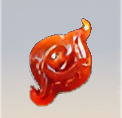
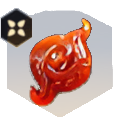
Updated Hero Level page.  Edited Images for new Mastery Jades.

diff --git a/progression.html b/progression.html
@@ -127,7 +127,7 @@
 				<h2>Hero Level</h2>
 				<p class="left">There are two methods to increase your hero's level: 
 					by <strong>completing Showdown missions</strong> and by <strong>using Alchemical Crystallized Souls</strong>. 
-					Note that each hero has a maximum level cap of 20.</p>
+					Note that each hero has a maximum level cap of 25.</p>
 					<hr><h3>Mission Experience</h3>
 					<p class="left">The experience gained from missions scales with your Showdown level relative to the mission's recommended level. 
 						Having a much higher level than recommended will reduce the experience earned. 
@@ -137,10 +137,10 @@
 					<p class="left">Alchemical Crystallized Souls (ACS) are acquired by beating Showdown missions for the first time with certain heroes. 
 						They are useful for boosting hero levels on characters outside your main three that you don't plan to grind heavily. 
 						However, I don't recommend using ACS on characters you intend to play frequently, as you'll naturally gain their levels over time.
-						<br><br>To max a hero from level 1 to 20, it requires a total of 117 ACS.</p>
+						<br><br>To level a hero from level 1 to 20, it requires a total of 117 ACS.</p>
 					<img src="img/progression/acs.png" alt="Proof of 117 ACS Fully Leveling Hero" class="large-example">
 					<hr><h3>Level Unlocks</h3>
-					<p class="left">You will acquire an upgrade to your at every level.
+					<p class="left">You will acquire an upgrade to your hero at every level.
 						These upgrades are permanent, but only affect the corresponding hero.</p>
 						<h4>Level 1: AoE Attack</h4>
 						<p class="center">Hero unlocks their AOE attack that generally helps a lot with clearing out smaller enemies.</p>
@@ -164,6 +164,14 @@
 						<p class="center">Hero's ranged weapon is upgraded from blue to purple permanently, giving a 16.7% damage increase.</p>
 						<h4>Level 17: Ranged Weapon Infinite Range</h4>
 						<p class="center">Hero's ranged weapon will no longer suffer from a range penalty from any range.</p>
+						<h4>Level 21: Hero-Specific Buff</h4>
+						<p class="center">Grants an additional bonus, usually related to the hero's unique abilities.</p>
+						<h4>Level 22: Weapon Upgrade</h4>
+						<p class="center">Hero's melee weapon is upgraded from purple to gold permanently, giving a 5.4% damage increase.</p>
+						<h4>Level 23: Weapon Upgrade</h4>
+						<p class="center">Hero's ranged weapon is upgraded from purple to gold permanently, giving a 5.4% damage increase.</p>
+						<h4>Level 24: Armor Upgrade</h4>
+						<p class="center">Hero's armor is upgraded from purple to gold permanently, giving an additional 300 armor.</p>
 			</div>
 
 			<!-- Souljades -->
